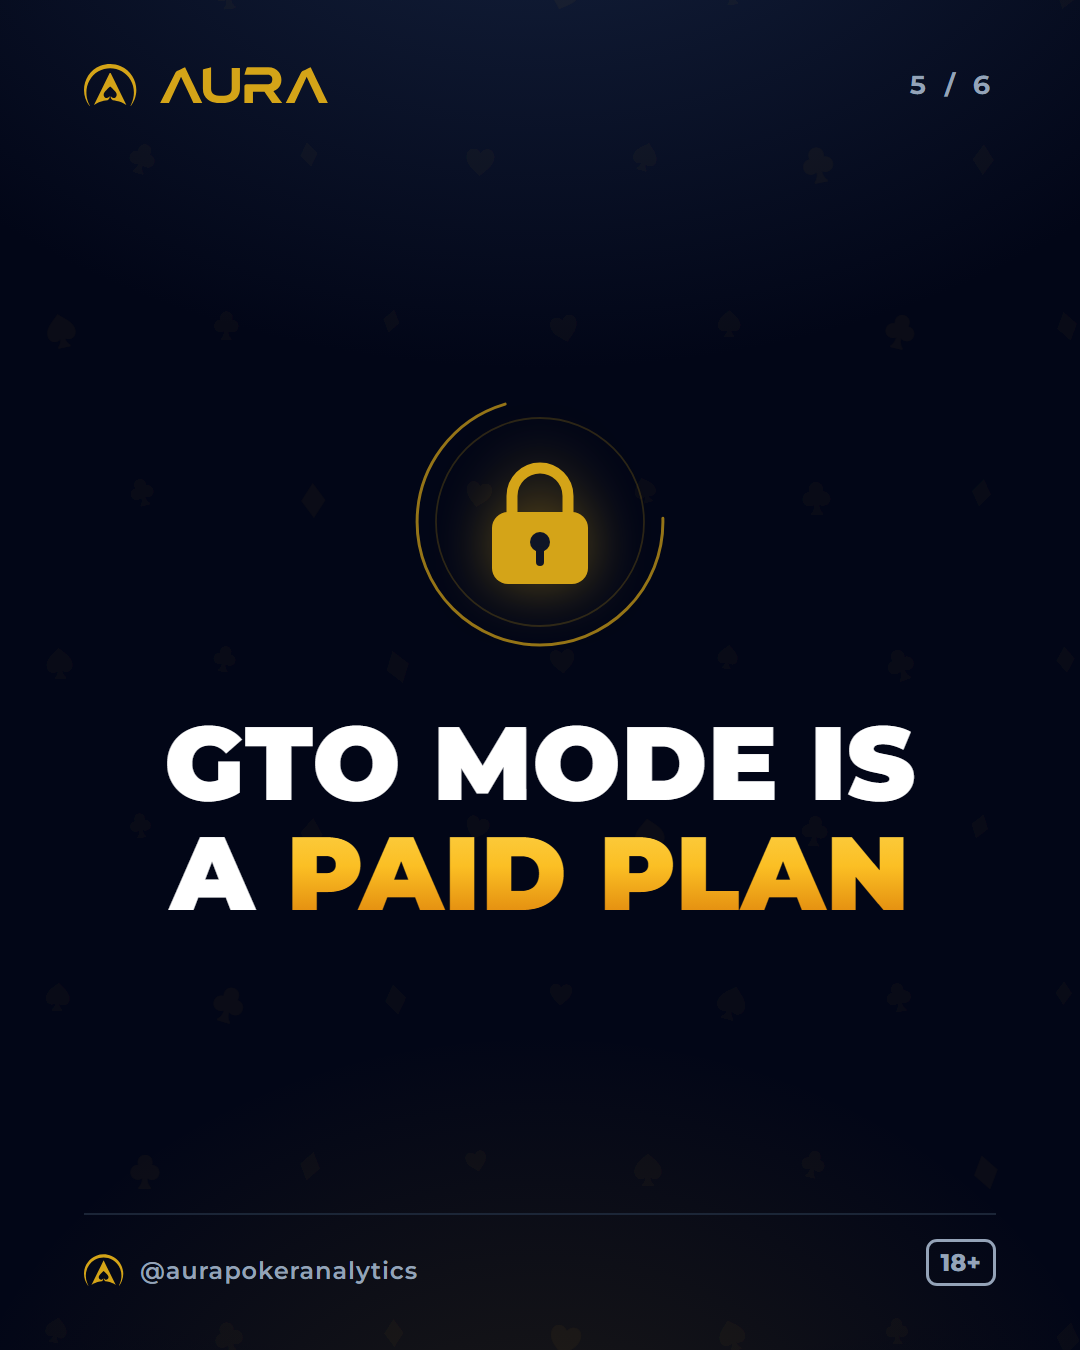
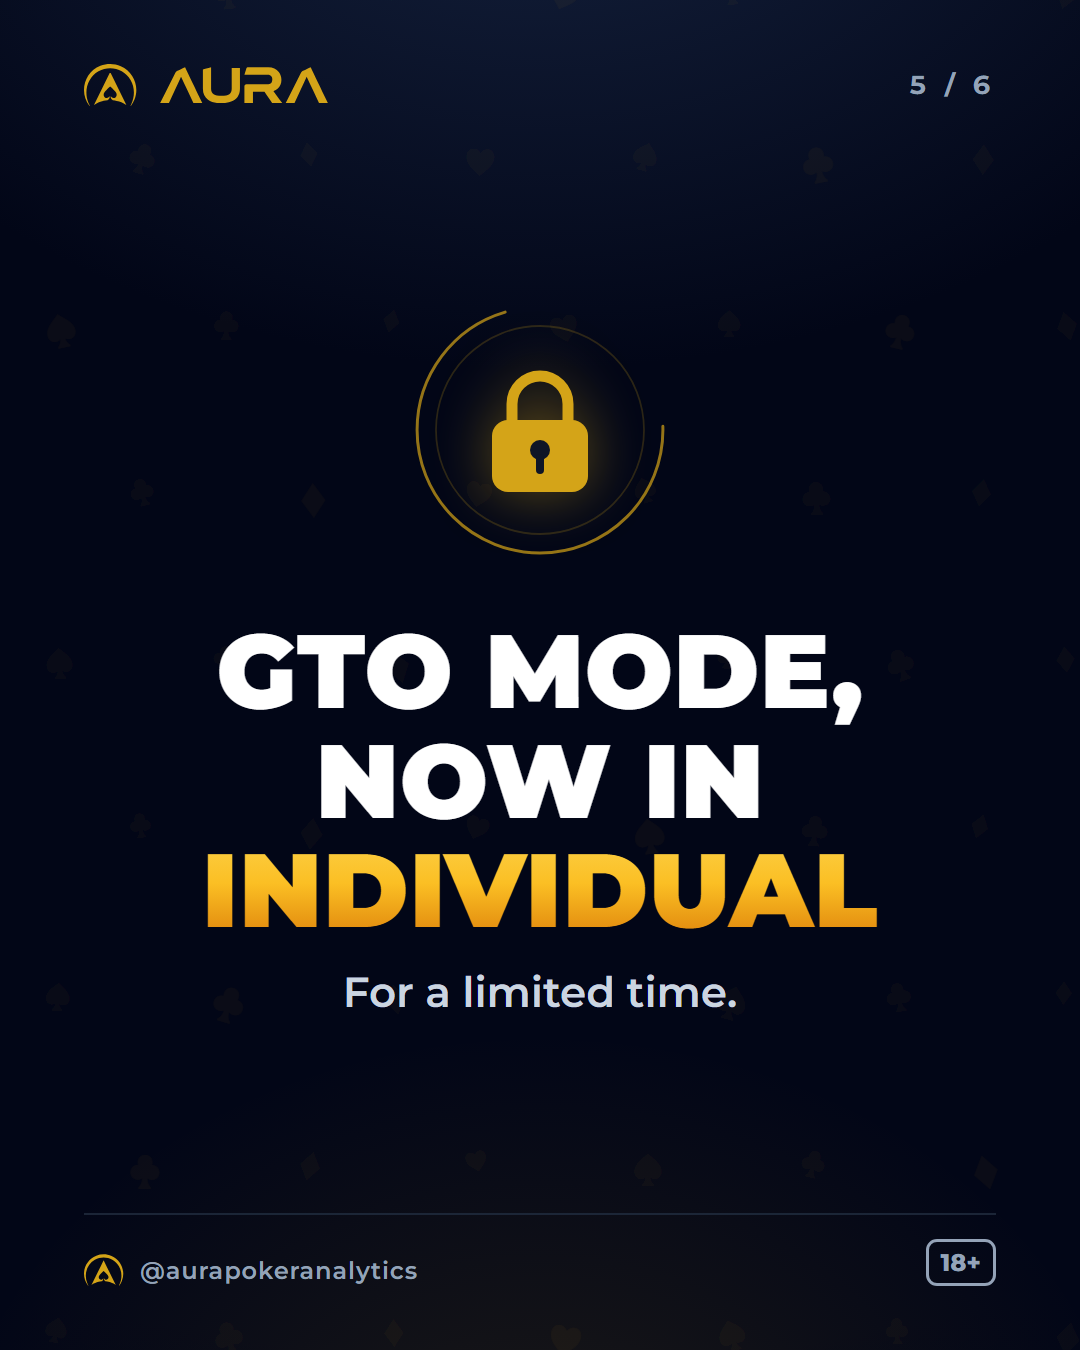
feat(modo-gto): GTO incluido no Individual por tempo limitado (frase do plano, slide 5, e-mail)

diff --git a/content/posts/modo-gto-launch/email-pt.html b/content/posts/modo-gto-launch/email-pt.html
@@ -49,7 +49,7 @@
                   <a href="https://www.aurapoker.com/?utm_source=email&utm_medium=email&utm_campaign=modo-gto-launch&utm_content=pt" style="display:inline-block; padding-top:14px; padding-bottom:14px; padding-left:34px; padding-right:34px; font-family:Arial,Helvetica,sans-serif; font-size:16px; font-weight:bold; color:#0b1220; text-decoration:none; border-radius:10px;">Conhecer o Modo GTO</a>
                 </td>
               </tr></table>
-              <p style="margin:12px 0 0 0; font-family:Arial,Helvetica,sans-serif; font-size:13px; line-height:1.5; color:#9aa7ba;">O Modo GTO é um plano pago. A conta grátis segue com o field e a comparação com o MDF; o número GTO e a faixa são do plano Modo GTO. Poker é jogo de habilidade e estudo. 18+.</p>
+              <p style="margin:12px 0 0 0; font-family:Arial,Helvetica,sans-serif; font-size:13px; line-height:1.5; color:#9aa7ba;">O Modo GTO está incluído no plano Individual por tempo limitado. A conta grátis segue com o field e a comparação com o MDF. Poker é jogo de habilidade e estudo. 18+.</p>
             </td>
           </tr>
           <tr>

diff --git a/content/posts/modo-gto-launch/email-pt.preview.html b/content/posts/modo-gto-launch/email-pt.preview.html
@@ -49,7 +49,7 @@
                   <a href="https://www.aurapoker.com/?utm_source=email&utm_medium=email&utm_campaign=modo-gto-launch&utm_content=pt" style="display:inline-block; padding-top:14px; padding-bottom:14px; padding-left:34px; padding-right:34px; font-family:Arial,Helvetica,sans-serif; font-size:16px; font-weight:bold; color:#0b1220; text-decoration:none; border-radius:10px;">Conhecer o Modo GTO</a>
                 </td>
               </tr></table>
-              <p style="margin:12px 0 0 0; font-family:Arial,Helvetica,sans-serif; font-size:13px; line-height:1.5; color:#9aa7ba;">O Modo GTO é um plano pago. A conta grátis segue com o field e a comparação com o MDF; o número GTO e a faixa são do plano Modo GTO. Poker é jogo de habilidade e estudo. 18+.</p>
+              <p style="margin:12px 0 0 0; font-family:Arial,Helvetica,sans-serif; font-size:13px; line-height:1.5; color:#9aa7ba;">O Modo GTO está incluído no plano Individual por tempo limitado. A conta grátis segue com o field e a comparação com o MDF. Poker é jogo de habilidade e estudo. 18+.</p>
             </td>
           </tr>
           <tr>

diff --git a/content/posts/modo-gto-launch/email-en.html b/content/posts/modo-gto-launch/email-en.html
@@ -49,7 +49,7 @@
                   <a href="https://www.aurapoker.com/?utm_source=email&utm_medium=email&utm_campaign=modo-gto-launch&utm_content=en" style="display:inline-block; padding-top:14px; padding-bottom:14px; padding-left:34px; padding-right:34px; font-family:Arial,Helvetica,sans-serif; font-size:16px; font-weight:bold; color:#0b1220; text-decoration:none; border-radius:10px;">See GTO Mode</a>
                 </td>
               </tr></table>
-              <p style="margin:12px 0 0 0; font-family:Arial,Helvetica,sans-serif; font-size:13px; line-height:1.5; color:#9aa7ba;">GTO Mode is a paid plan. The free account keeps the field and the MDF comparison; the GTO number and range are on the GTO Mode plan. Poker is a game of skill and study. 18+.</p>
+              <p style="margin:12px 0 0 0; font-family:Arial,Helvetica,sans-serif; font-size:13px; line-height:1.5; color:#9aa7ba;">GTO Mode is included in the Individual plan for a limited time. The free account keeps the field and the MDF comparison. Poker is a game of skill and study. 18+.</p>
             </td>
           </tr>
           <tr>

diff --git a/content/posts/modo-gto-launch/email-en.preview.html b/content/posts/modo-gto-launch/email-en.preview.html
@@ -49,7 +49,7 @@
                   <a href="https://www.aurapoker.com/?utm_source=email&utm_medium=email&utm_campaign=modo-gto-launch&utm_content=en" style="display:inline-block; padding-top:14px; padding-bottom:14px; padding-left:34px; padding-right:34px; font-family:Arial,Helvetica,sans-serif; font-size:16px; font-weight:bold; color:#0b1220; text-decoration:none; border-radius:10px;">See GTO Mode</a>
                 </td>
               </tr></table>
-              <p style="margin:12px 0 0 0; font-family:Arial,Helvetica,sans-serif; font-size:13px; line-height:1.5; color:#9aa7ba;">GTO Mode is a paid plan. The free account keeps the field and the MDF comparison; the GTO number and range are on the GTO Mode plan. Poker is a game of skill and study. 18+.</p>
+              <p style="margin:12px 0 0 0; font-family:Arial,Helvetica,sans-serif; font-size:13px; line-height:1.5; color:#9aa7ba;">GTO Mode is included in the Individual plan for a limited time. The free account keeps the field and the MDF comparison. Poker is a game of skill and study. 18+.</p>
             </td>
           </tr>
           <tr>

diff --git a/content/posts/modo-gto-launch/instagram/src/carrossel-en-05.html b/content/posts/modo-gto-launch/instagram/src/carrossel-en-05.html
@@ -15,6 +15,6 @@
 <svg style="position:absolute;left:70px;top:62px;filter:drop-shadow(0 0 30px rgba(212,164,24,.45))" width="120" height="136" viewBox="0 0 60 68" fill="none">
 <path d="M16 30V21a14 14 0 0 1 28 0v9" stroke="#D4A418" stroke-width="5.5" stroke-linecap="round"/>
 <rect x="6" y="29" width="48" height="36" rx="8" fill="#D4A418"/>
-<circle cx="30" cy="44" r="5" fill="#0F1526"/><rect x="28" y="46" width="4" height="10" rx="2" fill="#0F1526"/></svg></div><h1 class="title">GTO Mode is<br>a <em>paid plan</em></h1></div>
+<circle cx="30" cy="44" r="5" fill="#0F1526"/><rect x="28" y="46" width="4" height="10" rx="2" fill="#0F1526"/></svg></div><h1 class="title">GTO Mode,<br>now in<br><em>Individual</em></h1><p class="sub ">For a limited time.</p></div>
 <footer><div class="handle"><span class="icon" data-icon></span><span>@aurapokeranalytics</span></div><span class="age">18+</span></footer>
 </div><script src="common.js"></script></body></html>

diff --git a/content/posts/modo-gto-launch/instagram/src/build_email.py b/content/posts/modo-gto-launch/instagram/src/build_email.py
@@ -37,7 +37,7 @@ CP = {
         tagline="O GTO e o field na mesma tela.",
         pre="Novo na Aura: Modo GTO. O número GTO e a faixa GTO ao lado do número do field, onde há referência.",
         btn="Conhecer o Modo GTO",
-        under="O Modo GTO é um plano pago. A conta grátis segue com o field e a comparação com o MDF; o número GTO e a faixa são do plano Modo GTO. Poker é jogo de habilidade e estudo. 18+.",
+        under="O Modo GTO está incluído no plano Individual por tempo limitado. A conta grátis segue com o field e a comparação com o MDF. Poker é jogo de habilidade e estudo. 18+.",
         alt="Duas barras de fold no mesmo spot: field 46,0% e GTO 38,8%, com a faixa GTO de 37,1 a 40,4%.",
         f1="Você recebeu este e-mail porque criou uma conta na Aura Poker Analytics.",
         f2='Não quer mais e-mails como este? <a href="{{{RESEND_UNSUBSCRIBE_URL}}}" style="color:#aab6c8; text-decoration:underline;">Descadastrar</a> · Dúvidas no <a href="https://discord.gg/wYquSmUtAK" style="color:#aab6c8; text-decoration:underline;">Discord</a>.',
@@ -49,7 +49,7 @@ CP = {
         tagline="GTO and the field on the same screen.",
         pre="New on Aura: GTO Mode. The GTO number and the GTO range next to the field number, where a reference exists.",
         btn="See GTO Mode",
-        under="GTO Mode is a paid plan. The free account keeps the field and the MDF comparison; the GTO number and range are on the GTO Mode plan. Poker is a game of skill and study. 18+.",
+        under="GTO Mode is included in the Individual plan for a limited time. The free account keeps the field and the MDF comparison. Poker is a game of skill and study. 18+.",
         alt="GTO Mode in Postflop Analysis: the field number and the GTO number with the GTO range, side by side, in the same spot.",
         f1="You received this email because you created an account on Aura Poker Analytics.",
         f2='Don\'t want emails like this anymore? <a href="{{{RESEND_UNSUBSCRIBE_URL}}}" style="color:#aab6c8; text-decoration:underline;">Unsubscribe</a> · Questions? Find us on <a href="https://discord.gg/wYquSmUtAK" style="color:#aab6c8; text-decoration:underline;">Discord</a>.',

diff --git a/content/posts/modo-gto-launch/instagram/src/build.py b/content/posts/modo-gto-launch/instagram/src/build.py
@@ -41,7 +41,7 @@ ART = {
     "carrossel-en-02": dict(lang="en", size=(1080, 1350), kind="c2", t="Same spot,<br><em>two numbers</em>", s="{N1}", ts=96),
     "carrossel-en-03": dict(lang="en", size=(1080, 1350), kind="c3", t="Postflop:<br><em>GTO and range</em>", s="SRP and 3-bet, flop and turn. Raise response on SRP flop.", ts=76),
     "carrossel-en-04": dict(lang="en", size=(1080, 1350), kind="c4", t="Preflop:<br><em>GTO and deviation</em>", s="{c4}", ts=76),
-    "carrossel-en-05": dict(lang="en", size=(1080, 1350), kind="c5", t="GTO Mode is<br>a <em>paid plan</em>", s=None, ts=104),
+    "carrossel-en-05": dict(lang="en", size=(1080, 1350), kind="c5", t="GTO Mode,<br>now in<br><em>Individual</em>", s="For a limited time.", ts=104),
     "carrossel-en-06": dict(lang="en", size=(1080, 1350), kind="c6", t="See <em>GTO Mode</em>", s="Link in bio.", ts=96),
 }
 N_SLIDES = 6
@@ -257,7 +257,7 @@ def render_html(name, n, miss, test=False):
 <rect x="6" y="29" width="48" height="36" rx="8" fill="#D4A418"/>
 <circle cx="30" cy="44" r="5" fill="#0F1526"/><rect x="28" y="46" width="4" height="10" rx="2" fill="#0F1526"/></svg></div>"""
         inner = lockup(indicator(5)) + f"""
-<div class="mid z">{lock}<h1 class="title">{a['t']}</h1></div>
+<div class="mid z">{lock}<h1 class="title">{a['t']}</h1>{sub(a, n)}</div>
 {footer()}"""
         return page(lang, h, inner, css, tag=tag)
 

diff --git a/content/posts/modo-gto-launch/discord.md b/content/posts/modo-gto-launch/discord.md
@@ -1,10 +1,10 @@
 # Discord: lançamento do Modo GTO
 
 Status: rascunho com números fechados; não publicado.
-**Tamanho real (len do texto exato dos blocos abaixo, URL inclusa, em caracteres Unicode como o `len` do Python): PT 1.038, EN 1.078. Teto de 1.200 respeitado nos dois.** Recontar se qualquer palavra mudar. 3 emojis funcionais: 📊 título, 🔎 convite, 👉 CTA.
+**Tamanho real (len do texto exato dos blocos abaixo, URL inclusa, em caracteres Unicode como o `len` do Python): PT 1.029, EN 1.066. Teto de 1.200 respeitado nos dois.** Recontar se qualquer palavra mudar. 3 emojis funcionais: 📊 título, 🔎 convite, 👉 CTA.
 **Aviso de publicação: só postar depois do passo 6 do roteiro de go-live (teste logado do Rafael).** O link leva ao app e o texto promete o módulo.
 Números: todos de `aura-main/_ops/golive-gto-2026-10-04/numeros-verificados.md` (08/10), exemplo (a): field 46,0%, GTO 38,8% (faixa 37,1–40,4%), 5,6 pp acima do topo da faixa. Nenhum outro número.
-O CTA é "Conhecer o Modo GTO" / "See GTO Mode"; não promete o GTO de graça. A frase do plano é a da HUB, lida do código. Sem "prévia", sem preço, sem Beta.
+O CTA é "Conhecer o Modo GTO" / "See GTO Mode"; não promete o GTO de graça. A frase do plano é a da HUB de 08/10 ("incluído no plano Individual por tempo limitado") e depende da publicação do P-61. Sem preço, sem o plano Modo GTO como produto à venda, sem "prévia", sem Beta.
 @aurapokeranalytics: a confirmar pelo Rafael. UTM: `utm_campaign=modo-gto-launch`, uma URL por idioma.
 
 ---
@@ -26,7 +26,7 @@ Aqui o field folda mais do que o GTO. É um spot, não a média do field. Confir
 
 🔎 Abra um spot que você joga e olhe o gap.
 
-O Modo GTO é um plano pago. A conta grátis segue com o field e a comparação com o MDF; o número GTO e a faixa são do plano Modo GTO.
+O Modo GTO está incluído no plano Individual por tempo limitado. A conta grátis segue com o field e a comparação com o MDF.
 Ferramenta de estudo. 18+.
 👉 Conhecer o Modo GTO: https://www.aura.poker/?utm_source=discord&utm_medium=social&utm_campaign=modo-gto-launch&utm_content=discord-pt
 ```
@@ -48,7 +48,7 @@ Here the field folds more than GTO does. This is one spot, not the field average
 
 🔎 Open a spot you play and look at the gap.
 
-GTO Mode is a paid plan. The free account keeps the field and the MDF comparison; the GTO number and range are on the GTO Mode plan.
+GTO Mode is included in the Individual plan for a limited time. The free account keeps the field and the MDF comparison.
 Study tool. 18+.
 👉 See GTO Mode: https://www.aura.poker/?utm_source=discord&utm_medium=social&utm_campaign=modo-gto-launch&utm_content=discord-en
 ```
@@ -58,4 +58,4 @@ Study tool. 18+.
 ## Notas
 - A reação a raise é dita só como "no flop do SRP". Nos 3-bets BB vs CO, SB vs BTN e BTN vs CO a 40/60bb ela ainda não tem GTO; não generalizar.
 - A ressalva de torneios vanilla fica só na Metodologia do app (pedido do Rafael em 06/10); o Discord não a repete.
-- Conferência da contagem, para quem quiser refazer: copiar o texto de cada bloco (sem as cercas ```) para um arquivo sem quebra de linha final e rodar `python -c "import sys;print(len(open(sys.argv[1],encoding='utf-8').read()))" arquivo.txt`. A contagem acima foi feita por regex âncorada no arquivo inteiro (`\A(?s:.){N}\z`), porque esta sessão não tinha Python. O resultado é PT 1.038 e EN 1.078.
+- Conferência da contagem, para quem quiser refazer: copiar o texto de cada bloco (sem as cercas ```) para um arquivo sem quebra de linha final e rodar `python -c "import sys;print(len(open(sys.argv[1],encoding='utf-8').read()))" arquivo.txt`. A contagem acima foi feita por regex âncorada no arquivo inteiro (`\A(?s:.){N}\z`), porque esta sessão não tinha Python. O resultado é PT 1.029 e EN 1.066.

diff --git a/content/posts/modo-gto-launch/email.md b/content/posts/modo-gto-launch/email.md
@@ -27,7 +27,7 @@ Ao lado do número do field, agora o número GTO e a faixa GTO, onde há referê
 Exemplo: CO × BB em pote simples (SRP), 30–60bb (GTO a 40bb), torneios Regular, últimos 2 anos, flop K-high two-tone, sem par, desconectado, contra o c-bet de 33%. O field folda 46,0% contra 38,8% do GTO (faixa 37,1–40,4%): 5,6 pp acima do topo da faixa. Aqui o field folda mais do que o GTO. É um spot, não a média do field. Confira no seu board.
 
 Botão: Conhecer o Modo GTO
-Sob o botão: O Modo GTO é um plano pago. A conta grátis segue com o field e a comparação com o MDF; o número GTO e a faixa são do plano Modo GTO. Poker é jogo de habilidade e estudo. 18+.
+Sob o botão: O Modo GTO está incluído no plano Individual por tempo limitado. A conta grátis segue com o field e a comparação com o MDF. Poker é jogo de habilidade e estudo. 18+.
 
 ---
 
@@ -51,7 +51,7 @@ Next to the field number, now the GTO number and the GTO range, where a referenc
 Example: CO × BB single-raised pot (SRP), 30–60bb (GTO at 40bb), Regular tournaments, last 2 years, K-high two-tone, unpaired, disconnected flop, facing a 33% c-bet. The field folds 46.0% against GTO's 38.8% (range 37.1–40.4%): 5.6 pp above the top of the range. Here the field folds more than GTO does. This is one spot, not the field average. Check it on your board.
 
 Button: See GTO Mode
-Under the button: GTO Mode is a paid plan. The free account keeps the field and the MDF comparison; the GTO number and range are on the GTO Mode plan. Poker is a game of skill and study. 18+.
+Under the button: GTO Mode is included in the Individual plan for a limited time. The free account keeps the field and the MDF comparison. Poker is a game of skill and study. 18+.
 
 ---
 
@@ -66,6 +66,7 @@ Under the button: GTO Mode is a paid plan. The free account keeps the field and 
 - **Descadastro:** placeholder `{{{RESEND_UNSUBSCRIBE_URL}}}` no rodapé, substituído pelo Resend no envio.
 - **Layout:** 600px, tabelas, estilos inline, preheader oculto, botão âmbar `#D4A418`, linha de canais (Discord, WhatsApp, YouTube) e 18+ no rodapé, igual ao e-mail do Field Trends.
 - **Botão:** "Conhecer o Modo GTO" / "See GTO Mode", por instrução da HUB; não usar "Acesse grátis", porque a conta grátis não vê o número GTO.
-- **Frase sob o botão:** a da HUB, lida do código (Grátis e Individual não veem número GTO nem faixa; o GTO aparece como cadeado). Sem "prévia" nem "borrado".
+- **Frase sob o botão (decisão da HUB, 08/10):** "O Modo GTO está incluído no plano Individual por tempo limitado. A conta grátis segue com o field e a comparação com o MDF." / "GTO Mode is included in the Individual plan for a limited time. The free account keeps the field and the MDF comparison." Ela depende da publicação do P-61 (abertura do Modo GTO ao plano Individual). Sem preço, sem o plano Modo GTO como produto à venda, sem "plano Top", sem "prévia" nem "borrado".
+- **Promoção (não citar ainda):** o plano Modo GTO pelo preço do Individual, por tempo limitado, só entra quando a HUB confirmar que o checkout cobra o promocional. Até lá, nenhuma peça cita preço do GTO nem o plano Modo GTO como produto à venda.
 - **Reply-to:** o e-mail não pede resposta; o remetente segue o padrão anterior (`manager@aurapoker.com` como reply-to). Confirmar antes do envio.
 - **Não enviado.** Envio e lista são do Rafael.
